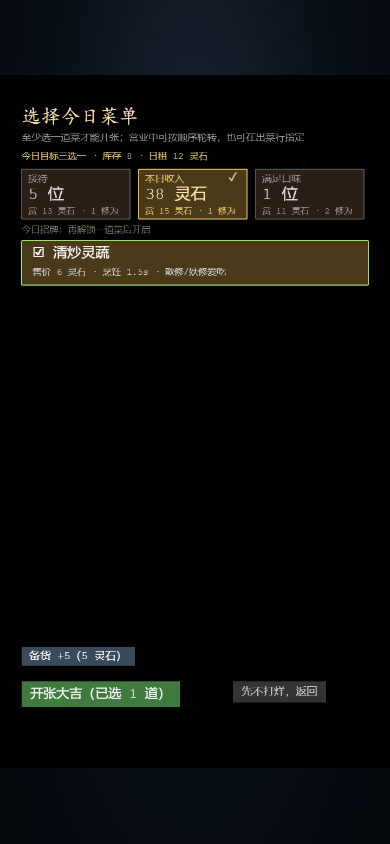
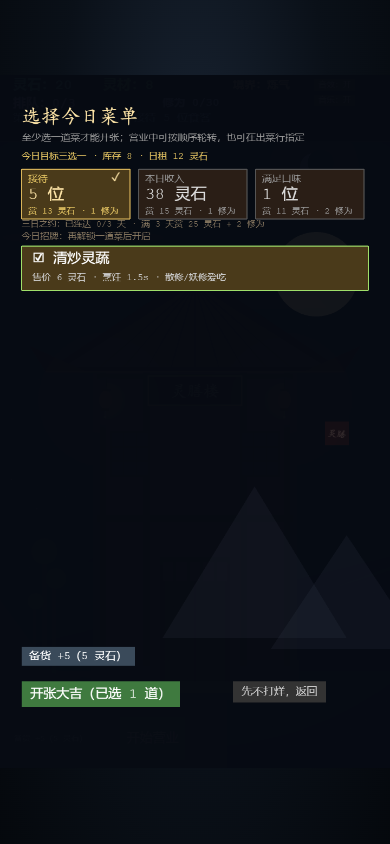
菜单加淡墨月山与朱印水印

Changed region(s): [[0.0308, 0.1848, 0.9538, 0.4005], [0.4308, 0.5853, 1.0, 0.7701], [0.8308, 0.4929, 0.8923, 0.5237]]

diff --git a/src/main.ts b/src/main.ts
@@ -3490,7 +3490,24 @@ class TavernScene extends Phaser.Scene {
     this.destroyOverlay();
     const cam = this.cameras.main;
     const layer = this.add.container(cam.scrollX, cam.scrollY).setDepth(100);
-    layer.add(this.add.rectangle(0, 0, SCREEN_W, SCREEN_H, 0x000000, 0.995).setOrigin(0, 0).setInteractive());
+    layer.add(this.add.rectangle(0, 0, SCREEN_W, SCREEN_H, 0x060a12, 0.985).setOrigin(0, 0).setInteractive());
+    // 菜单右下的淡墨山与月：填住空黑，又不会抢菜名
+    const decor = this.add.graphics();
+    decor.fillStyle(0xffe6b0, 0.05);
+    decor.fillCircle(584, 368, 78);
+    decor.fillStyle(0x8aa0b8, 0.06);
+    decor.fillTriangle(300, 1040, 470, 760, 640, 1040);
+    decor.fillTriangle(500, 1060, 640, 850, 780, 1060);
+    decor.fillStyle(0x8a2a22, 0.1);
+    decor.fillRect(600, 640, 44, 44);
+    layer.add(decor);
+    layer.add(
+      this.add
+        .text(622, 662, "灵膳", { fontSize: "17px", color: "#ffe6c8", fontFamily: XIAN_FONT, align: "center" })
+        .setOrigin(0.5)
+        .setAlpha(0.14)
+        .setAngle(4),
+    );
     layer.add(this.add.text(40, 58, "选择今日菜单", { fontSize: "36px", color: "#ffe6a8", fontFamily: XIAN_FONT }));
     const unlocked = this.unlockedDishIds();
     const booking = this.regulars.find((r) => unlocked.includes(r.wish));

diff --git a/docs/playtest.md b/docs/playtest.md
@@ -17,7 +17,7 @@
 - **每日目标三选一**：菜单页并列「接待 / 本日收入 / 口味」三张卡，玩家按今日菜单和库存自己挑；默认仍按天轮换。奖励按目标类型略有差异，并保留「基础灵石 + 当日收入 15%」与 60% 半赏。
 - **日租**：每天结算扣店面租金（Lv1 12 灵石，每级 +4），结算单列「店面租金」，净收益同步扣除。固定成本让流水有了底线压力，也给“今天接多少客”一个可比较的答案。
 - **营业中减负与字号**：状态栏高度 124；主数值 26px、排队 24px、目标 25px、营业行 21px；见闻录与音效/音乐开关在营业中收起，打烊后再出现，主屏不再被日志和按钮挤占。
-- **打烊页与菜单重排**：打烊页的 8 个事务入口从一行行小字改成 2×4 大卡片（整卡可点、暖色经营组 / 冷色查阅组，26px 主字 + 一行副标题）；菜单的三选一目标改成「大数字 + 奖励」卡片，菜名 26px、详情 17px、开张按钮 24px；营造与伙计页的正文字号同步上调。
+- **打烊页与菜单重排**：打烊页的 8 个事务入口从一行行小字改成 2×4 大卡片（整卡可点、暖色经营组 / 冷色查阅组，26px 主字 + 一行副标题）；菜单的三选一目标改成「大数字 + 奖励」卡片，菜名 26px、详情 17px、开张按钮 24px；营造与伙计页的正文字号同步上调。菜单右下加一层很淡的月、远山与朱印水印，填空黑但不抢字。
 - **明日预告**：结算单列「明日：天气 · 招牌 · 目标可自选」，给下一次开门一个具体的期待；换日时保留玩家上一次选中的目标类型。
 - **三日之约**：每日目标连达 3 天（半赏也算）额外赏 `20+5×等级` 灵石与 2–3 修为；菜单常驻进度，结算显示达成/下一档，存档保留。它给每日目标一个跨日的中期赌注，而不是每天结算完就归零。
 - **常客预告**：菜单页在标题下直接写「常客 柳含烟 已在路上 · 想吃 清炒灵蔬（上菜单 +50%）」；第一位到店的客人一定是他。玩家因此可以在选菜前为具体的人做决定，而不是只看随机客人。
